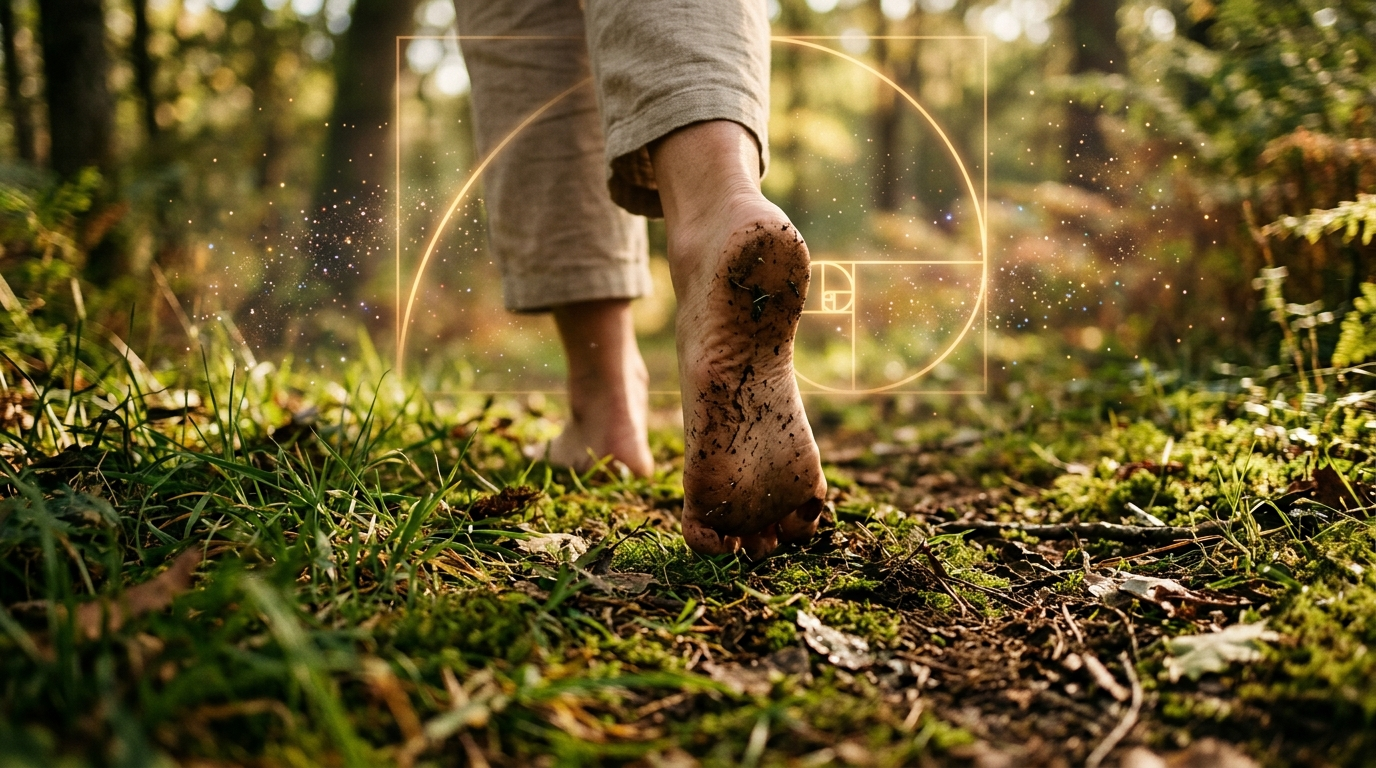
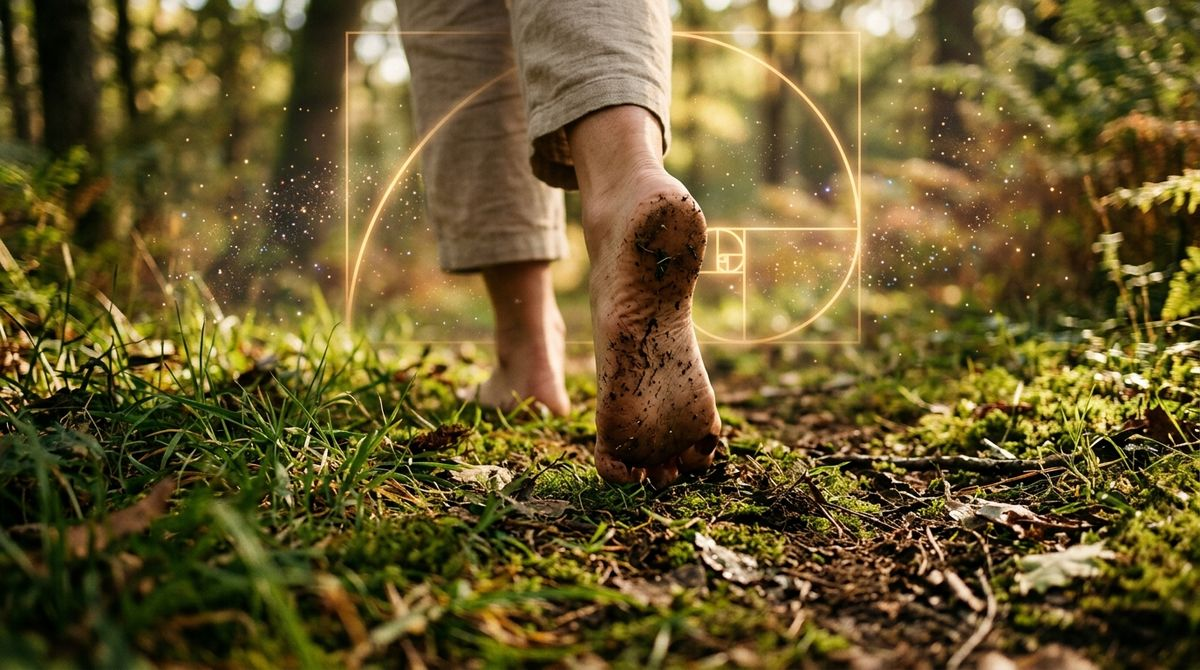
chore(blog): optimize barefoot_nature.jpg size to ~170kb for social previews

diff --git a/scratch/compress-blog-image.js b/scratch/compress-blog-image.js
@@ -1,0 +1,36 @@
+const fs = require('fs');
+const path = require('path');
+const sharp = require('sharp');
+
+const publicDir = path.join(__dirname, '..', 'public');
+const imgPath = path.join(publicDir, 'barefoot_nature.jpg');
+const tempPath = path.join(publicDir, 'barefoot_nature-temp.jpg');
+
+async function run() {
+  if (!fs.existsSync(imgPath)) {
+    console.error('Image not found:', imgPath);
+    return;
+  }
+
+  console.log('Optimizing barefoot_nature.jpg...');
+  try {
+    const originalSize = fs.statSync(imgPath).size;
+    console.log('Original Size:', (originalSize / 1024).toFixed(2), 'KB');
+
+    await sharp(imgPath)
+      .resize(1200) // resize width to 1200, height auto
+      .jpeg({ quality: 80 })
+      .toFile(tempPath);
+
+    fs.unlinkSync(imgPath);
+    fs.renameSync(tempPath, imgPath);
+
+    const optimizedSize = fs.statSync(imgPath).size;
+    console.log('Optimized Size:', (optimizedSize / 1024).toFixed(2), 'KB');
+    console.log('barefoot_nature.jpg optimized successfully!');
+  } catch (err) {
+    console.error('Error optimizing image:', err);
+  }
+}
+
+run();
